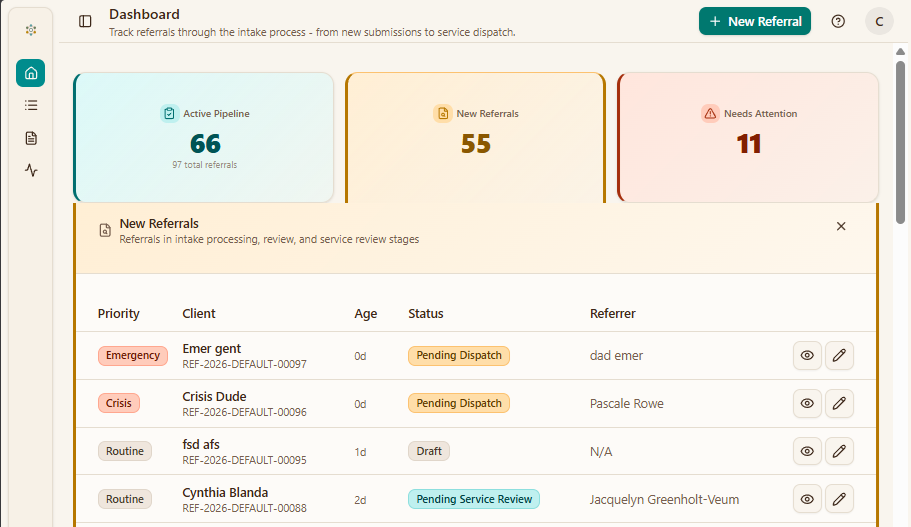
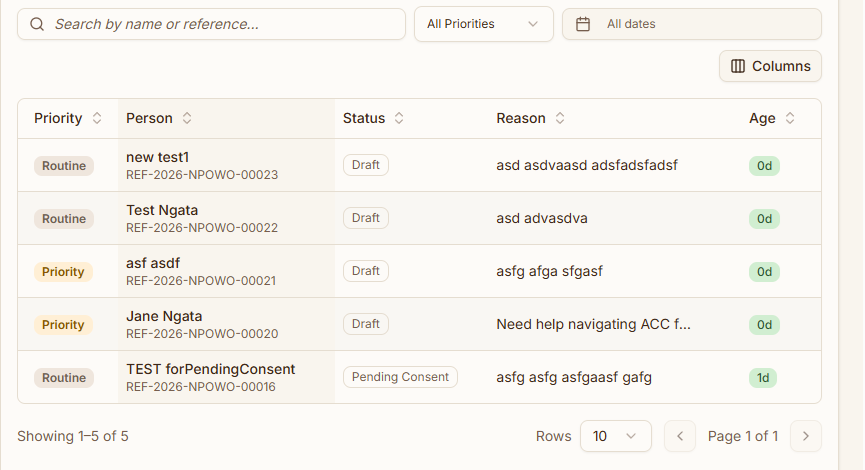
docs(dashboards): replace the reference screenshots from the current build
All nine images now come from current-build captures. Five sections of
prose went with them, because the new images contradicted what the pages
claimed.

The captures are full screens, cropped into the regions each page talks
about, so re-shooting one screen refreshes several images. Boxes live in
tools/crop_dashboard_images.py. The raw captures are NOT committed —
they are full screens containing staff names and this repo is public —
so the tool reads them from outside the tree, the same arrangement
build_manual_images.py uses for its .docx sources. One name that fell
inside a crop, a case worker in Service Users Needing Contact, is
painted out before cropping; verified in both directions, the name gone
and the column heading intact.

What the new images corrected:

- The case worker follow-up table is Reference / Title / Whanau /
  Service / Follow-up Date / Priority / Risk. The page described six
  different columns, a Risk badge palette, and a "22d overdue" style
  badge that the build does not render — it shows a plain date.
- The supervisor page is headed "Team Overview" and has three tiles
  (Awaiting Commencement, High Priority Referrals, Active Episodes) plus
  three month-to-date figures — not the four cards documented, and no
  activities/episodes ratio card. It also has a Filter by service
  control that nothing mentioned, which silently scopes every figure
  below it.
- Service Users Needing Contact is Name / Phone / Email / Case Worker /
[…]

diff --git a/tools/crop_dashboard_images.py b/tools/crop_dashboard_images.py
@@ -1,20 +1,26 @@
 #!/usr/bin/env python3
-"""Cut the reference sections' dashboard images out of the manual screenshots.
+"""Cut the Dashboards pages' screenshots out of full-screen captures.
 
 The Dashboards pages carried a pre-launch screenshot set: superseded "Manaaki
-Care" branding, raw database statuses shown as labels, and scratch data. Most of
-what they need is already visible in two current-build screenshots captured for
-the manual, so those regions are cropped out rather than re-captured.
+Care" branding, raw database statuses shown as labels, and scratch data. Rather
+than one capture per image, a handful of full-screen captures are cropped into
+the regions each page actually talks about — so re-shooting one screen refreshes
+several images at once.
 
-Not everything can come from here. The case worker's "Activities Needing
-Follow-up" table and all three supervisor dashboard images appear in no current
-screenshot, and still need fresh captures.
+SOURCES ARE NOT IN THIS REPO. They are full-screen captures that contain staff
+names, and this repository is public. They live outside it:
+
+    /home/amj/dev/.manaakicare-docs-screenshot-originals/2026-08-15/new-captures
+
+Override with SCREENSHOT_SOURCES=/path if they are somewhere else. Same
+arrangement as tools/build_manual_images.py, which reads .docx files that are
+likewise not committed.
 
     python3 tools/crop_dashboard_images.py
 
 Boxes are [x, y, width, height] in the SOURCE image's pixels, origin top-left.
-Re-run after replacing a source image; every output is regenerated from scratch,
-so this is idempotent.
+REDACT boxes are applied before cropping, in the same coordinate space. Every
+output is regenerated from scratch, so this is idempotent.
 """
 
 import os
@@ -25,51 +31,101 @@ import pngkit
 
 ROOT = os.path.dirname(os.path.dirname(os.path.abspath(__file__)))
 STATIC = os.path.join(ROOT, 'static')
+SOURCES = os.environ.get(
+	'SCREENSHOT_SOURCES',
+	'/home/amj/dev/.manaakicare-docs-screenshot-originals/2026-08-15/new-captures',
+)
 
-INTAKE = 'img/manual/dashboard/intake-dashboard.png'   # 800 x 833
-CASELOAD = 'img/manual/dashboard/my-caseload.png'      # 1360 x 763
+CASELOAD = 'cw-dash-1.png'                    # 1391 x 550
+ACTIVE = 'cw-dash-active-cases.png'           # 1099 x 727
+FOLLOWUP = 'cw-dash-act-need-follow-up.png'   # 1097 x 222
+INTAKE = 'intake-dash-clean.png'              #  957 x 916
+TEAM = 'manager-dash-multiservice..png'       # 1653 x 854
 
-# (source, box, destination, what it is)
-# NOTHING FROM intake-dashboard.png YET.
-#
-# It would supply all three intake images — the overview, the drill-down list
-# and the tab strip — except that it carries hand-drawn red annotations from the
-# manual: a ring around the "Entry Processing" tile and a box around the first
-# two tabs. Those mean something beside the manual's prose and nothing beside
-# the reference page's, where an unexplained red ring reads as a mistake. They
-# also cannot be painted out, since the ring crosses a gradient-filled tile.
-#
-# One clean re-capture of the intake dashboard unblocks all three. Until then
-# the intake page keeps its outdated images.
-#
+# Painted out before cropping, because the repo is public and these are real
+# colleagues rather than client fixtures. Boxes are in source coordinates;
+# `sample` names where to take the fill colour from when the default (just left
+# of the box) would land on something other than the row background.
+REDACT = {
+	TEAM: [
+		# "Keriana Fox" in the Case Worker column of Service Users Needing Contact.
+		([1100, 818, 110, 26], None),
+	],
+}
+
 # (source, box, destination, what it is)
 CROPS = [
 	(
 		# The left-hand nav is cropped off: it is the whole application's menu,
-		# documented elsewhere, and it drags the dark sidebar into an image the
-		# page uses to talk about tiles. The last few pixels go too — they catch
-		# the window's scrollbar.
-		CASELOAD, [265, 148, 1078, 170],
+		# documented elsewhere, and it drags a dark sidebar into an image the
+		# page uses to talk about tiles.
+		CASELOAD, [285, 152, 1092, 144],
 		'img/dashboards/case-worker/analytics.png',
 		'The four count tiles.',
 	),
 	(
-		# Height stops at the second row's lower border rather than running to
-		# the foot of the source, which would end on a half-drawn third row.
-		CASELOAD, [265, 520, 1078, 230],
+		ACTIVE, [60, 14, 1039, 713],
 		'img/dashboards/case-worker/my-active-cases.png',
-		'The assigned-work table with its column headings.',
+		'The assigned-work table, all ten rows, with its column headings.',
+	),
+	(
+		FOLLOWUP, [45, 0, 1052, 222],
+		'img/dashboards/case-worker/activities-needing-follow-up.png',
+		'The follow-up table, including the Priority and Risk columns.',
+	),
+	(
+		INTAKE, [60, 66, 880, 232],
+		'img/dashboards/intake-officer/overview.png',
+		'Title, subtitle and the three status tiles.',
+	),
+	(
+		INTAKE, [75, 338, 865, 60],
+		'img/dashboards/intake-officer/tabs.png',
+		'The tab strip, which the reference page documents tab by tab.',
+	),
+	(
+		INTAKE, [75, 398, 865, 470],
+		'img/dashboards/intake-officer/new-referrals.png',
+		'Filters, columns and the list of entries at the selected stage.',
+	),
+	(
+		TEAM, [28, 228, 1600, 200],
+		'img/dashboards/supervisor/analytics.png',
+		'The three count tiles and the month-to-date figures beneath them.',
+	),
+	(
+		TEAM, [28, 440, 1600, 228],
+		'img/dashboards/supervisor/pending-requests.png',
+		'Referral requests waiting on an accept or reject decision.',
+	),
+	(
+		TEAM, [28, 680, 1600, 172],
+		'img/dashboards/supervisor/needing-contact.png',
+		'Service users nobody has been in touch with recently.',
 	),
 ]
 
 
 def main():
-	for source, box, dest, what in CROPS:
-		src_path = os.path.join(STATIC, source)
-		if not os.path.exists(src_path):
-			raise SystemExit(f'missing source: {src_path}')
+	if not os.path.isdir(SOURCES):
+		raise SystemExit(
+			f'source captures not found at {SOURCES}\n'
+			f'set SCREENSHOT_SOURCES=/path/to/captures'
+		)
 
-		img = pngkit.read(src_path)
+	cache = {}
+	for name in {c[0] for c in CROPS}:
+		path = os.path.join(SOURCES, name)
+		if not os.path.exists(path):
+			raise SystemExit(f'missing source: {path}')
+		img = pngkit.read(path)
+		for box, sample in REDACT.get(name, []):
+			pngkit.redact(img, box, sample=sample)
+			print(f'  redacted {box} in {name}')
+		cache[name] = img
+
+	for source, box, dest, what in CROPS:
+		img = cache[source]
 		x, y, w, h = box
 		if x + w > img.width or y + h > img.height:
 			raise SystemExit(
